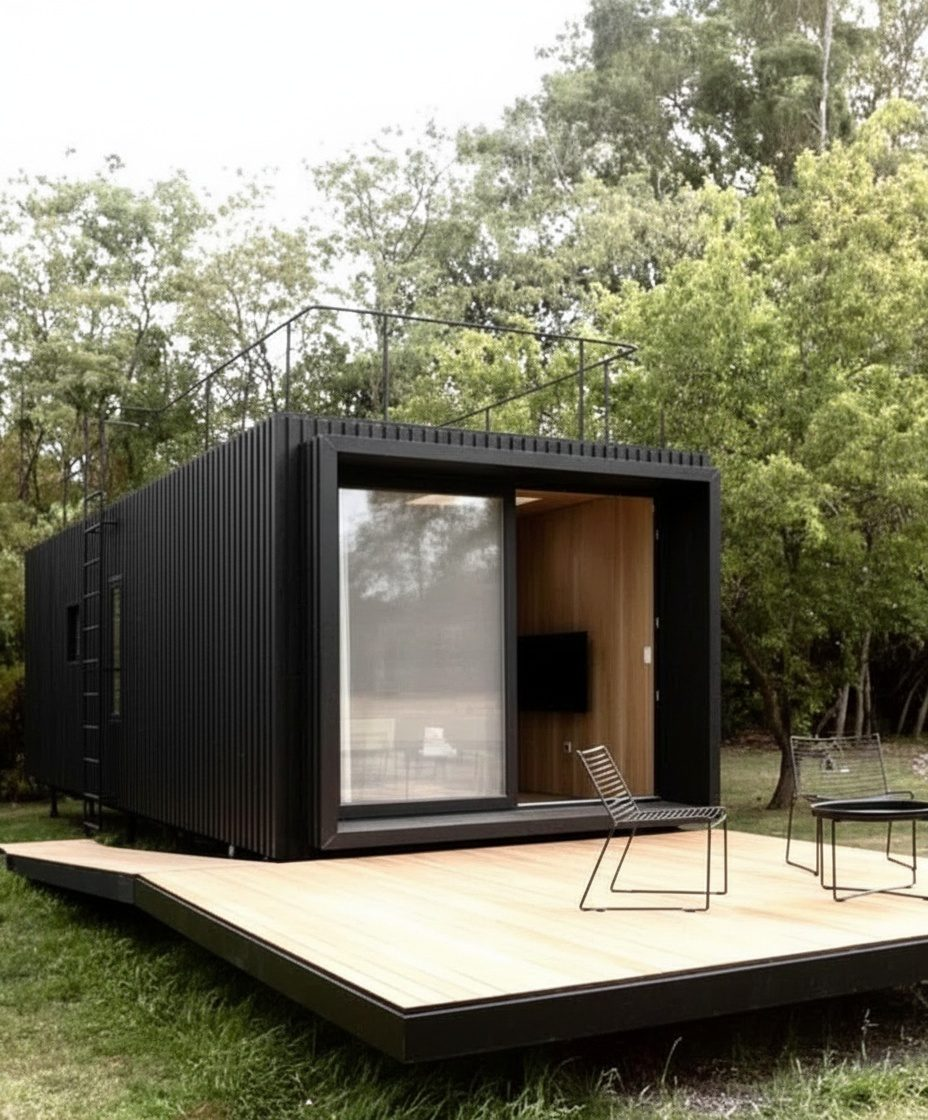
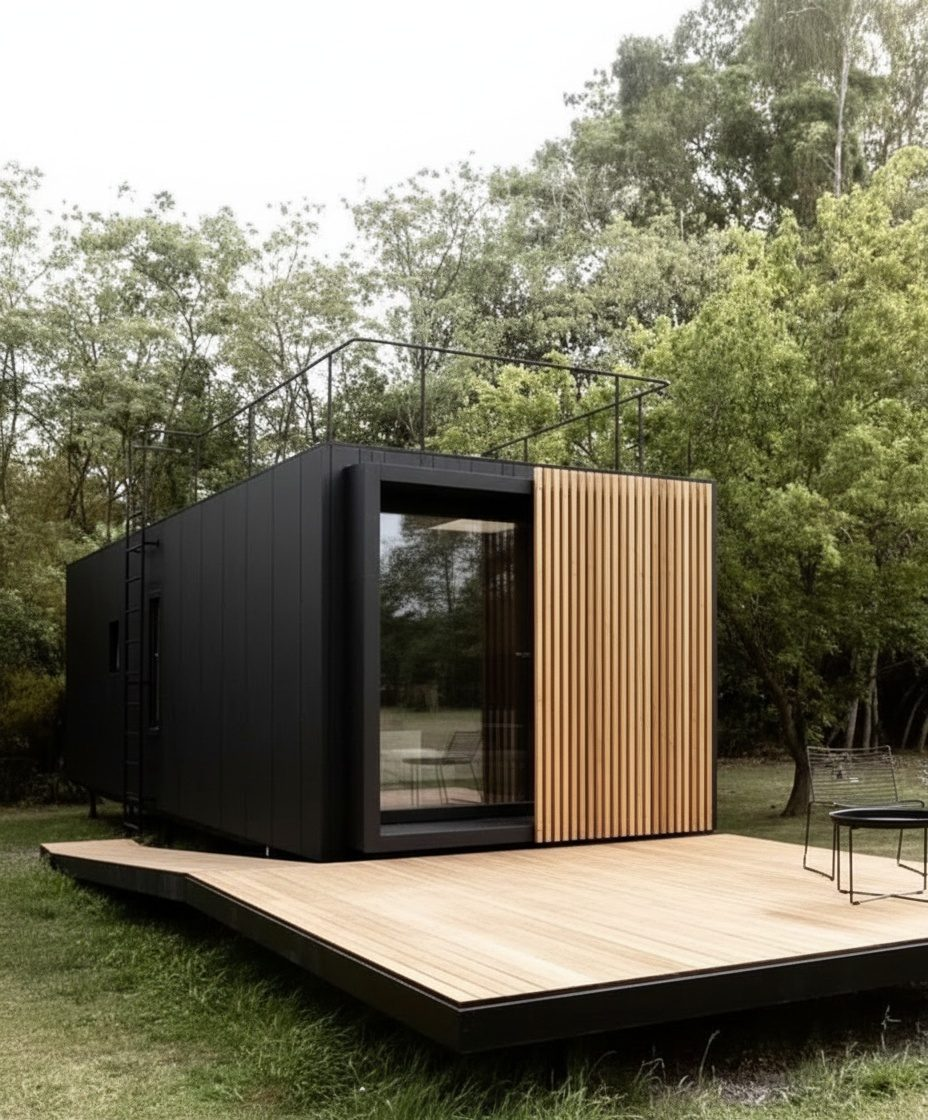
Mix bois (bois + uni) + equilibre editorial de l'accueil
- Revetement 'bois' redefini en 'Mix bois' : 6 images regenerees (volume
  uni + section tasseaux verticaux espaces, ton du bois accorde a la
  couleur), option renommee dans le configurateur ; images 'uni' inchangees
- Titres Bienvenue/Subventions en serif editorial + kickers, cartes
  maisons a hauteurs egales avec CTA aligne en bas

Claude-Session: https://claude.ai/code/session_01RuUrpKD8RVAZfW5HjNaGSA

diff --git a/index.html b/index.html
@@ -86,7 +86,7 @@
                             <span class="config-label">Revêtement</span>
                             <div class="config-pills">
                                 <button type="button" class="pill active" data-revet="video">Vidéo</button>
-                                <button type="button" class="pill" data-revet="bois">Planches de bois</button>
+                                <button type="button" class="pill" data-revet="bois">Mix bois</button>
                                 <button type="button" class="pill" data-revet="uni">Uni</button>
                             </div>
                         </div>
@@ -126,7 +126,7 @@
                             <span class="config-label">Revêtement</span>
                             <div class="config-pills">
                                 <button type="button" class="pill active" data-revet="video">Vidéo</button>
-                                <button type="button" class="pill" data-revet="bois">Planches de bois</button>
+                                <button type="button" class="pill" data-revet="bois">Mix bois</button>
                                 <button type="button" class="pill" data-revet="uni">Uni</button>
                             </div>
                         </div>
@@ -160,10 +160,10 @@
 
     <section class="section-padding bg-white text-center">
         <div class="container">
-            <h2>Bienvenue chez MyGlamHouse</h2>
-            <p class="lead" style="max-width: 800px; margin: 0 auto 40px auto;">
-                Maison d'hôtes, Résidence principale, Maison de vacances, Investissement locatif.<br>
-                Nous réalisons vos projets de construction à ossature bois et blocs de chanvre, y compris l'isolation naturelle, adaptés à vos besoins.
+            <span class="edito-kicker">Bienvenue</span>
+            <h2 class="editorial-h2">Une maison, tous vos usages.</h2>
+            <p class="lead" style="max-width: 720px; margin: 18px auto 40px auto;">
+                Maison d'hôtes, résidence principale, maison de vacances ou investissement locatif : nous réalisons vos projets de construction à ossature bois et blocs de chanvre, isolation naturelle comprise, adaptés à vos besoins.
             </p>
             <div style="display: flex; gap: 15px; justify-content: center; flex-wrap: wrap;">
                 <a href="#maisons" class="btn-nav">DÉCOUVRIR LES MAISONS</a>
@@ -176,8 +176,9 @@
     <section class="section-padding bg-white">
         <div class="container">
             <div class="section-title">
-                <h2>Nos trends</h2>
-                <p>Styles : Bungalow Beach, Malibu, Palm Springs, Pacific Palisades, Beverly Hills, Bel Air, Hollywood Hills, Venice Beach, Santa Monica</p>
+                <span class="edito-kicker">Inspirations</span>
+                <h2>Nos <em>trends</em></h2>
+                <p>Bungalow Beach · Malibu · Palm Springs · Pacific Palisades · Beverly Hills · Bel Air · Hollywood Hills · Venice Beach · Santa Monica</p>
             </div>
             <div class="slider-wrapper">
                 <div class="inspiration-slider">
@@ -204,7 +205,7 @@
             <div style="display: grid; grid-template-columns: 1fr 1fr; gap: 60px; align-items: start;">
                 <div>
                     <span class="pill-new">SUBVENTIONS 2026</span>
-                    <h2 style="margin-top: 15px;">Vérifiez si vous bénéficiez d'une aide</h2>
+                    <h2 class="editorial-h2" style="margin-top: 15px;">Vérifiez si vous <em>bénéficiez</em> d'une aide</h2>
                     <p style="margin-top: 15px; color: #666; line-height: 1.8;">
                         Dans certains cas vous pouvez bénéficier d'aides de l'État, vérifiez selon votre cas, répondez à ce formulaire :
                     </p>

diff --git a/style.css b/style.css
@@ -1515,3 +1515,21 @@ select { margin-bottom: 20px; }
 .subsidy-check label { display: flex; align-items: flex-start; gap: 12px; cursor: pointer; font-weight: 600; color: var(--charcoal); }
 .subsidy-check input[type="checkbox"] { margin-top: 4px; width: 18px; height: 18px; accent-color: var(--terracotta); flex-shrink: 0; }
 .subsidy-hint { display: block; font-weight: 400; font-size: 0.82rem; color: #888; margin-top: 4px; }
+
+/* ===== ÉQUILIBRE ÉDITORIAL (accueil) ===== */
+/* Titres de section en serif, cohérents avec la direction Lumière */
+.editorial-h2 {
+    font-family: var(--font-serif); font-weight: 400; letter-spacing: -0.01em;
+    font-size: clamp(1.9rem, 3.4vw, 2.9rem); line-height: 1.12;
+}
+.editorial-h2 em { font-style: italic; color: var(--terracotta); }
+/* Kicker utilisable hors .section-title (ex : section Bienvenue centrée) */
+.text-center .edito-kicker { display: block; margin-bottom: 14px; }
+
+/* Cartes maisons : hauteurs égales, CTA aligné en bas */
+.maisons-duo { align-items: stretch; }
+.maison-card { display: flex; flex-direction: column; }
+.maison-info { display: flex; flex-direction: column; flex: 1; }
+.maison-desc { min-height: 0; }
+.maison-specs { margin-bottom: 24px; }
+.maison-link { margin-top: auto; }

diff --git a/CHANGELOG.md b/CHANGELOG.md
@@ -2,6 +2,11 @@
 
 Historique des évolutions notables du site MyGlamHouse. Format libre, du plus récent au plus ancien.
 
+## 2026-07-22 (sexies) — « Mix bois » (bois + uni) + équilibre éditorial
+
+- **Revêtement « bois » redéfini en « Mix bois »** : les 6 images concernées sont régénérées (fal.ai / nano-banana) — le volume principal reste en couleur unie et une **section accolée est habillée de tasseaux de bois verticaux espacés** (claire-voie), ton du bois accordé à la couleur (miel sur sable, naturel sur noir/sauge). Décor distinct pour chacune. L'option s'appelle désormais **« Mix bois »** dans le configurateur (les images « uni » sont inchangées).
+- **Équilibre de la page d'accueil** : titres de sections « Bienvenue » et « Subventions » passés en **serif éditorial** (cohérence avec le reste), ajout de kickers (Bienvenue / Inspirations), reformulations (« Une maison, tous vos usages. », « Nos *trends* »), styles LA séparés par des points ; **cartes maisons à hauteurs égales** avec le CTA « Demander une étude » aligné en bas des deux colonnes.
+
 ## 2026-07-22 (quinquies) — Visuels IA des revêtements (fal.ai) intégrés
 
 - **12 visuels photoréalistes générés** via fal.ai — modèle **`fal-ai/nano-banana/edit`** (Google Gemini 2.5 Flash Image) — pour le configurateur : 2 maisons × 2 revêtements (planches de bois / uni) × 3 couleurs (noir, sable, sauge), dans `assets/gen/`.
